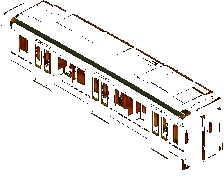
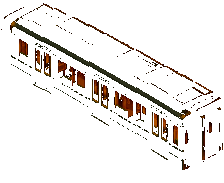
Skytrain cars join up: shear to 2:1 and chain by roof edge
- tools/train_align.py: shears each car (day/night/glow) so its roof edge
  runs at exactly 2:1, measures where that edge starts and ends, writes
  client/src/model/train_layout.json
- SkytrainView: first car on the rails, each next car's roof start placed
  on the previous car's roof end (no more steps/overlaps between cars)
- TrainModel: train length from the measured cars instead of a guess

diff --git a/client/src/view/SkytrainView.ts b/client/src/view/SkytrainView.ts
@@ -1,7 +1,7 @@
 import { Scene, GameObjects, Math as PMath } from 'phaser';
 import type { IsoGrid } from '@shared/iso';
 import { SKYTRAIN } from '@shared/skytrain';
-import { CAR_LEN, CAR_GAP, CARS, type TrainModel } from '../model/TrainModel';
+import { CARS, MID_LEN, TRAIN_LAYOUT, type TrainModel } from '../model/TrainModel';
 import {
     prismTexture, placePrism, concrete, trackTop, platformTop, glassWall, metalRoof, concourse, stairStep,
     type Placed,
@@ -16,7 +16,8 @@ const D = { deck: 40000, farWall: 40500, train: 41000, nearWall: 41500, roof: 42
 const CONCRETE = 0x9a9d96, TRAIN_Z = SKYTRAIN.deck.z + SKYTRAIN.deck.h;
 
 // one car = day sprite, night sprite cross-faded on top of it, and the additive glow of its lit windows
-type CarSprites = { day: GameObjects.Image; night: GameObjects.Image; glow: GameObjects.Image };
+type CarKind = 'head' | 'mid' | 'tail';
+type CarSprites = { kind: CarKind; day: GameObjects.Image; night: GameObjects.Image; glow: GameObjects.Image };
 type TrainSprites = { cars: CarSprites[] };
 
 export class SkytrainView {
@@ -111,13 +112,9 @@ export class SkytrainView {
         }
     }
 
-    private car(kind: 'head' | 'mid' | 'tail'): CarSprites {
-        const add = (v: string) => {
-            const img = this.scene.add.image(0, 0, `train_${kind}_${v}`);
-            // origin = the car's footprint centre on the rails: x = middle, y = bottom - (i+j extent) * 8
-            return img.setOrigin(0.5, (img.height - img.width / 4) / img.height);
-        };
-        return { day: add('day'), night: add('night'), glow: add('glow').setBlendMode('ADD').setDepth(50002) };
+    private car(kind: CarKind): CarSprites {
+        const add = (v: string) => this.scene.add.image(0, 0, `train_${kind}_${v}`).setOrigin(0, 0);
+        return { kind, day: add('day'), night: add('night'), glow: add('glow').setBlendMode('ADD').setDepth(50002) };
     }
 
     update(model: TrainModel) {
@@ -128,22 +125,30 @@ export class SkytrainView {
             if (!s) {
                 // the car at the highest i shows its +i end: headlights when moving +i, tail lights when moving -i;
                 // the others show a gangway there
-                const kinds = Array.from({ length: CARS }, (_, k) => k === CARS - 1 ? (t.dir === 1 ? 'head' : 'tail') : 'mid') as ('head' | 'mid' | 'tail')[];
+                const kinds = Array.from({ length: CARS }, (_, k) => k === CARS - 1 ? (t.dir === 1 ? 'head' : 'tail') : 'mid') as CarKind[];
                 s = { cars: kinds.map(k => this.car(k)) };
                 this.trains.set(t.id, s);
             }
             const track = SKYTRAIN.tracks[t.track], night = this.lighting.current.lights;
+            // first car: centred on the rails; every next car: its roof edge starts where the previous one ends
+            const first = TRAIN_LAYOUT[s.cars[0].kind], c0 = this.grid.toWorld(t.tail + MID_LEN / 2, track.j);
+            let x = c0.x - first.w / 2, y = c0.y - TRAIN_Z - (first.h - first.w / 4);
             s.cars.forEach((car, k) => {
-                const i = t.tail + k * (CAR_LEN + CAR_GAP);
-                const p = this.grid.toWorld(i + CAR_LEN / 2, track.j);
-                const x = Math.round(p.x), y = Math.round(p.y - TRAIN_Z), depth = D.train + i * 0.001;
+                const L = TRAIN_LAYOUT[car.kind];
+                if (k > 0) {
+                    const P = TRAIN_LAYOUT[s.cars[k - 1].kind];
+                    x += P.front[0] - L.rear[0]; y += P.front[1] - L.rear[1];
+                }
+                const i = t.tail + k * MID_LEN, len = (L.front[0] - L.rear[0]) / 32;
+                const depth = D.train + i * 0.001;
                 // fade in/out at the ends of the viaduct instead of popping
-                const a = PMath.Clamp(Math.min(i + 0.5, SKYTRAIN.roadLength - 0.5 - (i + CAR_LEN)) / 1.5 + 1, 0, 1);
-                car.day.setPosition(x, y).setDepth(depth).setAlpha(a);
-                car.night.setPosition(x, y).setDepth(depth + 0.0001).setAlpha(a * night);
+                const a = PMath.Clamp(Math.min(i + 0.5, SKYTRAIN.roadLength - 0.5 - (i + len)) / 1.5 + 1, 0, 1);
+                const rx = Math.round(x), ry = Math.round(y);
+                car.day.setPosition(rx, ry).setDepth(depth).setAlpha(a);
+                car.night.setPosition(rx, ry).setDepth(depth + 0.0001).setAlpha(a * night);
                 // glow layers sit above everything, so a car under the station roof must not shine through it
-                const underRoof = i + CAR_LEN > SKYTRAIN.station.roof.i0 && i < SKYTRAIN.station.roof.i1;
-                car.glow.setPosition(x, y).setAlpha(underRoof ? 0 : a * night);
+                const underRoof = i + len > SKYTRAIN.station.roof.i0 && i < SKYTRAIN.station.roof.i1;
+                car.glow.setPosition(rx, ry).setAlpha(underRoof ? 0 : a * night);
             });
         }
         for (const [id, s] of this.trains) if (!seen.has(id)) {

diff --git a/client/src/model/TrainModel.ts b/client/src/model/TrainModel.ts
@@ -2,9 +2,15 @@
 // Positions are in tiles along i. Pure logic.
 import { SKYTRAIN } from '@shared/skytrain';
 
-// car size follows the art (assets/props/train_*.png, 224 px wide = 7 tiles of i + j): 5.7 long x 1.3 wide
-export const CAR_LEN = 5.7, CAR_W = 1.3, CAR_GAP = 0.12, CARS = 3;
-export const TRAIN_LEN = CARS * CAR_LEN + (CARS - 1) * CAR_GAP;
+import layout from './train_layout.json';
+
+// Car lengths come from the art: train_layout.json (tools/train_align.py) has each sprite's roof edge.
+// A train = two middle cars + a head (moving +i) or tail (moving -i) car at the +i end.
+export const TRAIN_LAYOUT = layout as Record<'head' | 'mid' | 'tail', { w: number; h: number; rear: [number, number]; front: [number, number] }>;
+const tiles = (c: { rear: [number, number]; front: [number, number] }) => (c.front[0] - c.rear[0]) / 32;
+export const CARS = 3, CAR_W = 1.3;
+export const MID_LEN = tiles(TRAIN_LAYOUT.mid);
+export const TRAIN_LEN = (CARS - 1) * MID_LEN + Math.max(tiles(TRAIN_LAYOUT.head), tiles(TRAIN_LAYOUT.tail));
 const VMAX = 7, ACCEL = 3, DWELL = 8;
 const ENTER = -1, EXIT = SKYTRAIN.roadLength + 1;
 

diff --git a/tools/train_align.py b/tools/train_align.py
@@ -1,0 +1,75 @@
+"""train_align - make the three skytrain cars join up.
+
+ChatGPT draws each car with a slightly different, not-quite-2:1 slope, so cars placed by their
+image bounds step and overlap. This:
+  1. shears every car (day, night and glow alike) so its long roof edge runs at exactly 2:1 (slope 0.5)
+  2. finds where that roof edge starts (rear) and ends (front) in each sprite
+  3. writes client/src/model/train_layout.json, which the game uses to put each car's rear
+     on the previous car's front (and to know how long a train is)
+
+  python tools/train_align.py          (run after tools/prep_asset.py made train_{head,mid,tail}_*.png)
+"""
+import json
+from pathlib import Path
+
+import numpy as np
+from PIL import Image
+
+ROOT = Path(__file__).resolve().parent.parent
+DIR = ROOT / "client" / "public" / "assets" / "props"
+LAYOUT = ROOT / "client" / "src" / "model" / "train_layout.json"
+CARS = ["head", "mid", "tail"]
+LAYERS = ["day", "night", "glow"]
+
+
+def roof_line(alpha):
+    """slope and points of the long top edge (top silhouette in the middle of the car)"""
+    W = alpha.shape[1]
+    xs = np.arange(int(W * 0.2), int(W * 0.65))
+    tops = np.array([np.argmax(alpha[:, x]) for x in xs])
+    m, c = np.polyfit(xs, tops, 1)
+    return m, c
+
+
+def shear(img, m, pivot_x):
+    """move each column vertically so a line of slope m becomes slope 0.5 (adds rows as needed)"""
+    a = np.array(img)
+    H, W = a.shape[:2]
+    shift = np.round((0.5 - m) * (np.arange(W) - pivot_x)).astype(int)
+    pad_top, pad_bot = max(0, -shift.min()), max(0, shift.max())
+    out = np.zeros((H + pad_top + pad_bot, W, 4), np.uint8)
+    for x in range(W):
+        out[pad_top + shift[x]: pad_top + shift[x] + H, x] = a[:, x]
+    return Image.fromarray(out), pad_top
+
+
+def main():
+    layout = {}
+    for car in CARS:
+        imgs = {l: Image.open(DIR / f"train_{car}_{l}.png").convert("RGBA") for l in LAYERS}
+        alpha = np.array(imgs["day"])[..., 3] > 0
+        m, _ = roof_line(alpha)
+        W = alpha.shape[1]
+        sheared = {}
+        for l, im in imgs.items():
+            sheared[l], _ = shear(im, m, W / 2)
+            sheared[l].save(DIR / f"train_{car}_{l}.png")
+        a2 = np.array(sheared["day"])[..., 3] > 0
+        m2, c2 = roof_line(a2)
+        # the roof edge = columns whose top silhouette sits on the fitted line
+        tops = np.array([np.argmax(a2[:, x]) if a2[:, x].any() else -1 for x in range(W)])
+        on = [x for x in range(W) if tops[x] >= 0 and abs(tops[x] - (m2 * x + c2)) <= 2.5]
+        rear, front = min(on), max(on)
+        layout[car] = {
+            "w": W, "h": a2.shape[0],
+            "rear": [rear, round(m2 * rear + c2, 1)],
+            "front": [front, round(m2 * front + c2, 1)],
+        }
+        print(f"{car}: slope {m:.3f} -> {m2:.3f}, roof edge x {rear}..{front}, size {W}x{a2.shape[0]}")
+    LAYOUT.write_text(json.dumps(layout, indent=2))
+    for car, v in layout.items():
+        print(f"{car}: {(v['front'][0] - v['rear'][0]) / 32:.2f} tiles along the track")
+
+
+if __name__ == "__main__":
+    main()
